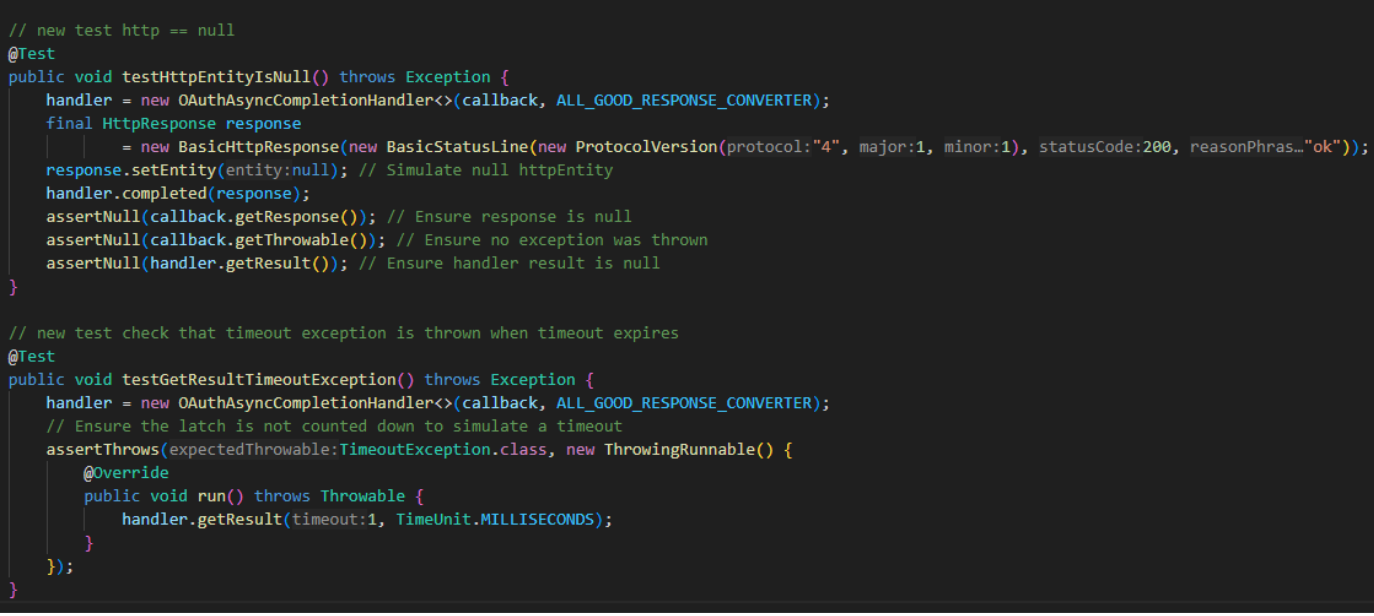
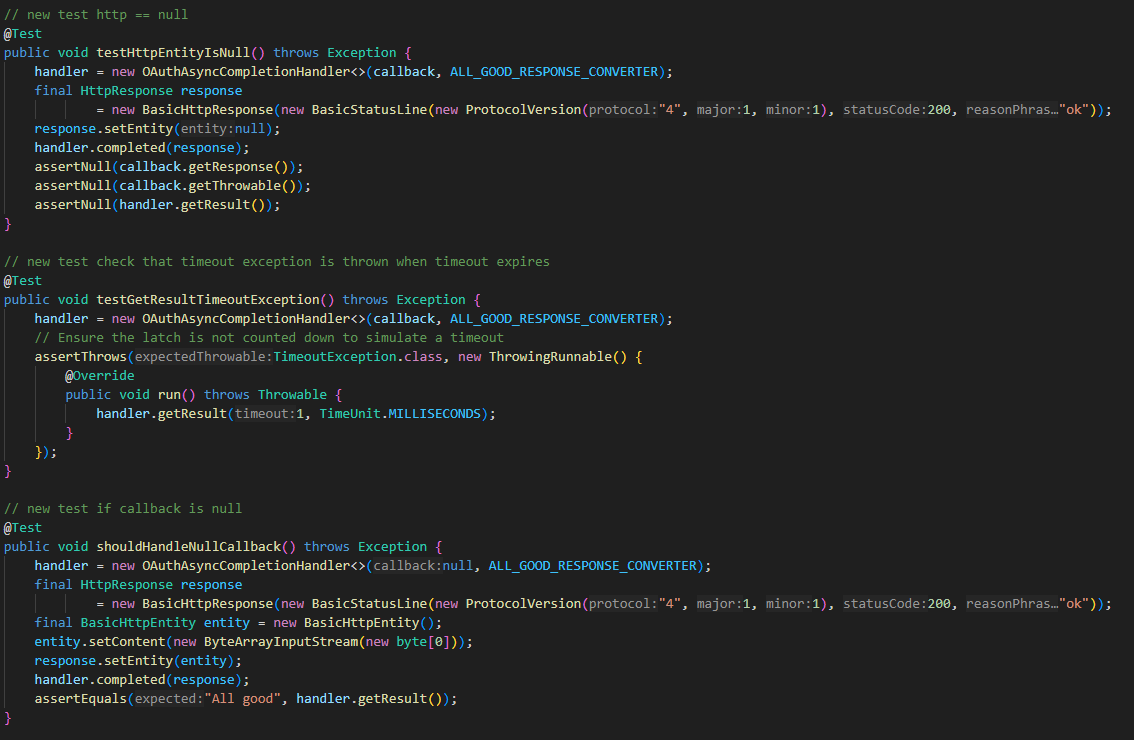
finished changing screenshots

Changed region(s): [[0.0, 0.0, 1.0, 0.9562], [0.0, 0.987, 1.0, 1.0]]

diff --git a/scribejava-httpclient-apache/src/test/java/com/github/scribejava/httpclient/apache/OAuthAsyncCompletionHandlerTest.java b/scribejava-httpclient-apache/src/test/java/com/github/scribejava/httpclient/apache/OAuthAsyncCompletionHandlerTest.java
@@ -4,14 +4,18 @@ import static org.junit.Assert.assertEquals;
 import static org.junit.Assert.assertNotNull;
 import static org.junit.Assert.assertNull;
 import static org.junit.Assert.assertTrue;
+import static org.mockito.Mockito.mock;
+import static org.mockito.Mockito.when;
 
 import java.io.ByteArrayInputStream;
 import java.io.IOException;
+import java.io.InputStream;
 import java.util.concurrent.CancellationException;
 import java.util.concurrent.ExecutionException;
 import java.util.concurrent.TimeUnit;
 import java.util.concurrent.TimeoutException;
 
+import org.apache.http.HttpEntity;
 import org.apache.http.HttpResponse;
 import org.apache.http.ProtocolVersion;
 import org.apache.http.entity.BasicHttpEntity;
@@ -88,11 +92,11 @@ public class OAuthAsyncCompletionHandlerTest {
         handler = new OAuthAsyncCompletionHandler<>(callback, ALL_GOOD_RESPONSE_CONVERTER);
         final HttpResponse response
                 = new BasicHttpResponse(new BasicStatusLine(new ProtocolVersion("4", 1, 1), 200, "ok"));
-        response.setEntity(null); // Simulate null httpEntity
+        response.setEntity(null); 
         handler.completed(response);
-        assertNull(callback.getResponse()); // Ensure response is null
-        assertNull(callback.getThrowable()); // Ensure no exception was thrown
-        assertNull(handler.getResult()); // Ensure handler result is null
+        assertNull(callback.getResponse()); 
+        assertNull(callback.getThrowable());
+        assertNull(handler.getResult()); 
     }
 
     // new test check that timeout exception is thrown when timeout expires
@@ -107,6 +111,20 @@ public class OAuthAsyncCompletionHandlerTest {
             }
         });
     }
+
+    // new test if callback is null
+    @Test
+    public void shouldHandleNullCallback() throws Exception {
+        handler = new OAuthAsyncCompletionHandler<>(null, ALL_GOOD_RESPONSE_CONVERTER);
+        final HttpResponse response
+                = new BasicHttpResponse(new BasicStatusLine(new ProtocolVersion("4", 1, 1), 200, "ok"));
+        final BasicHttpEntity entity = new BasicHttpEntity();
+        entity.setContent(new ByteArrayInputStream(new byte[0]));
+        response.setEntity(entity);
+        handler.completed(response);
+        assertEquals("All good", handler.getResult());
+    }
+
 
     @Test
     public void shouldReleaseLatchOnIOException() {
